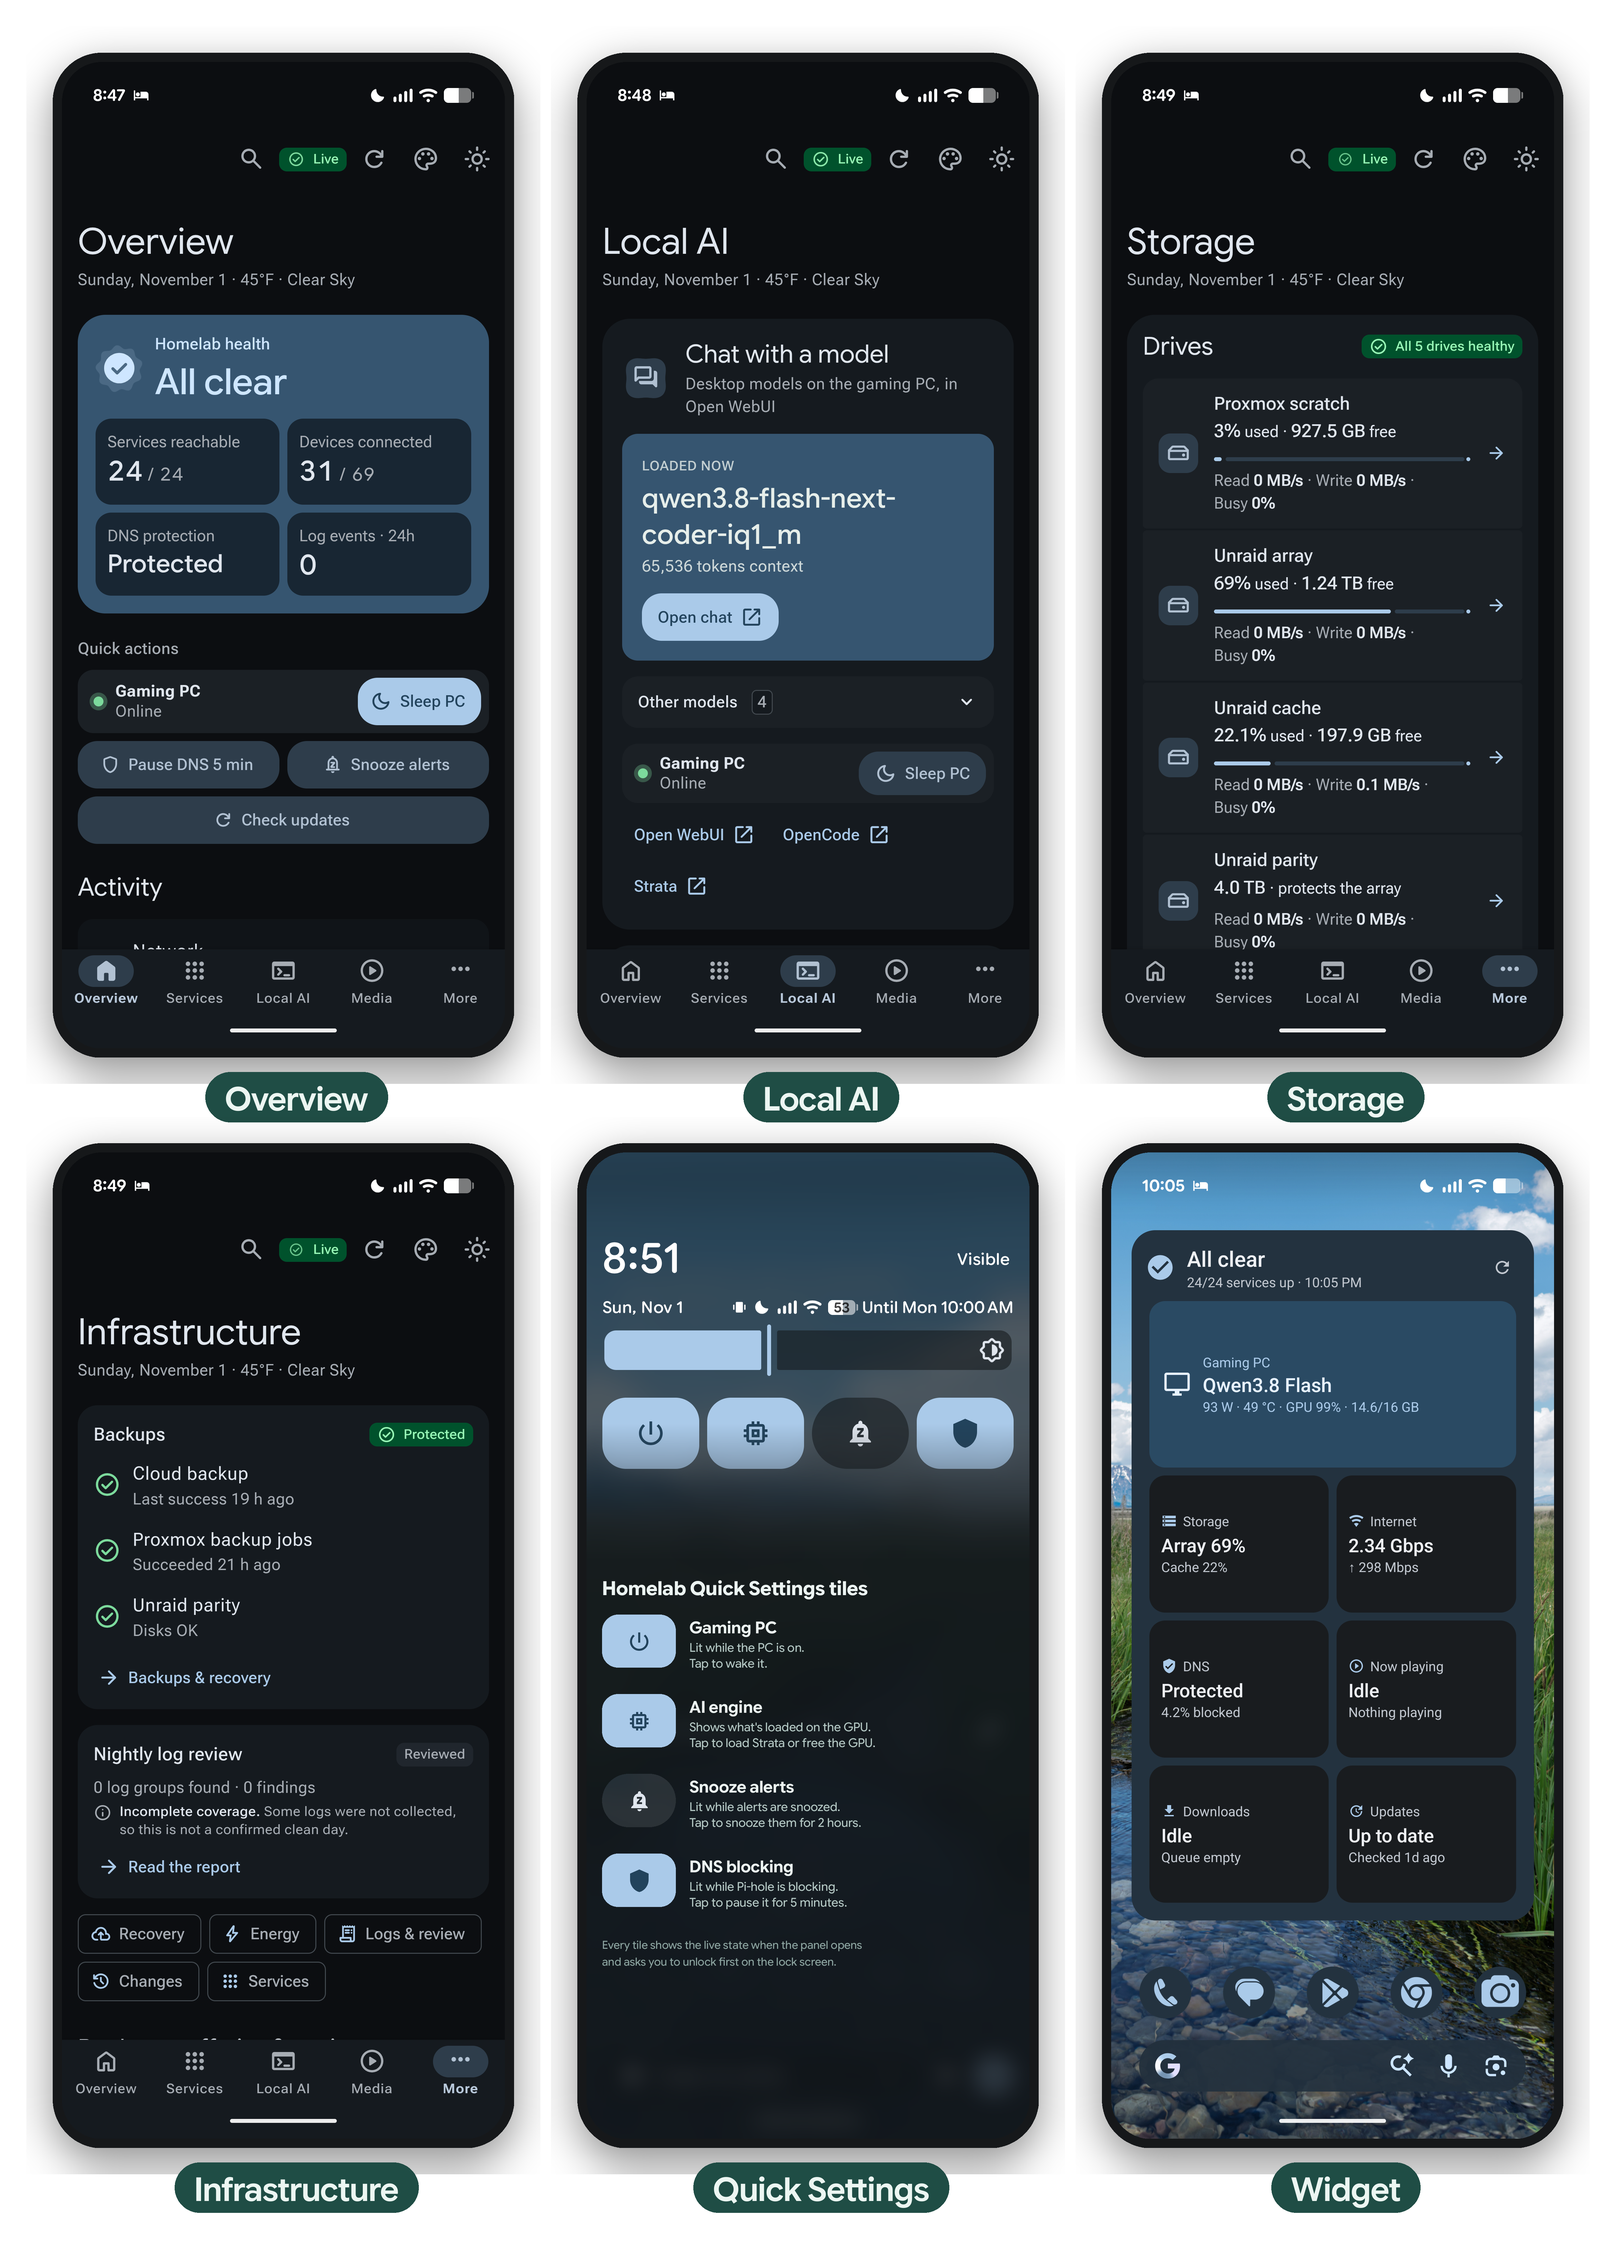
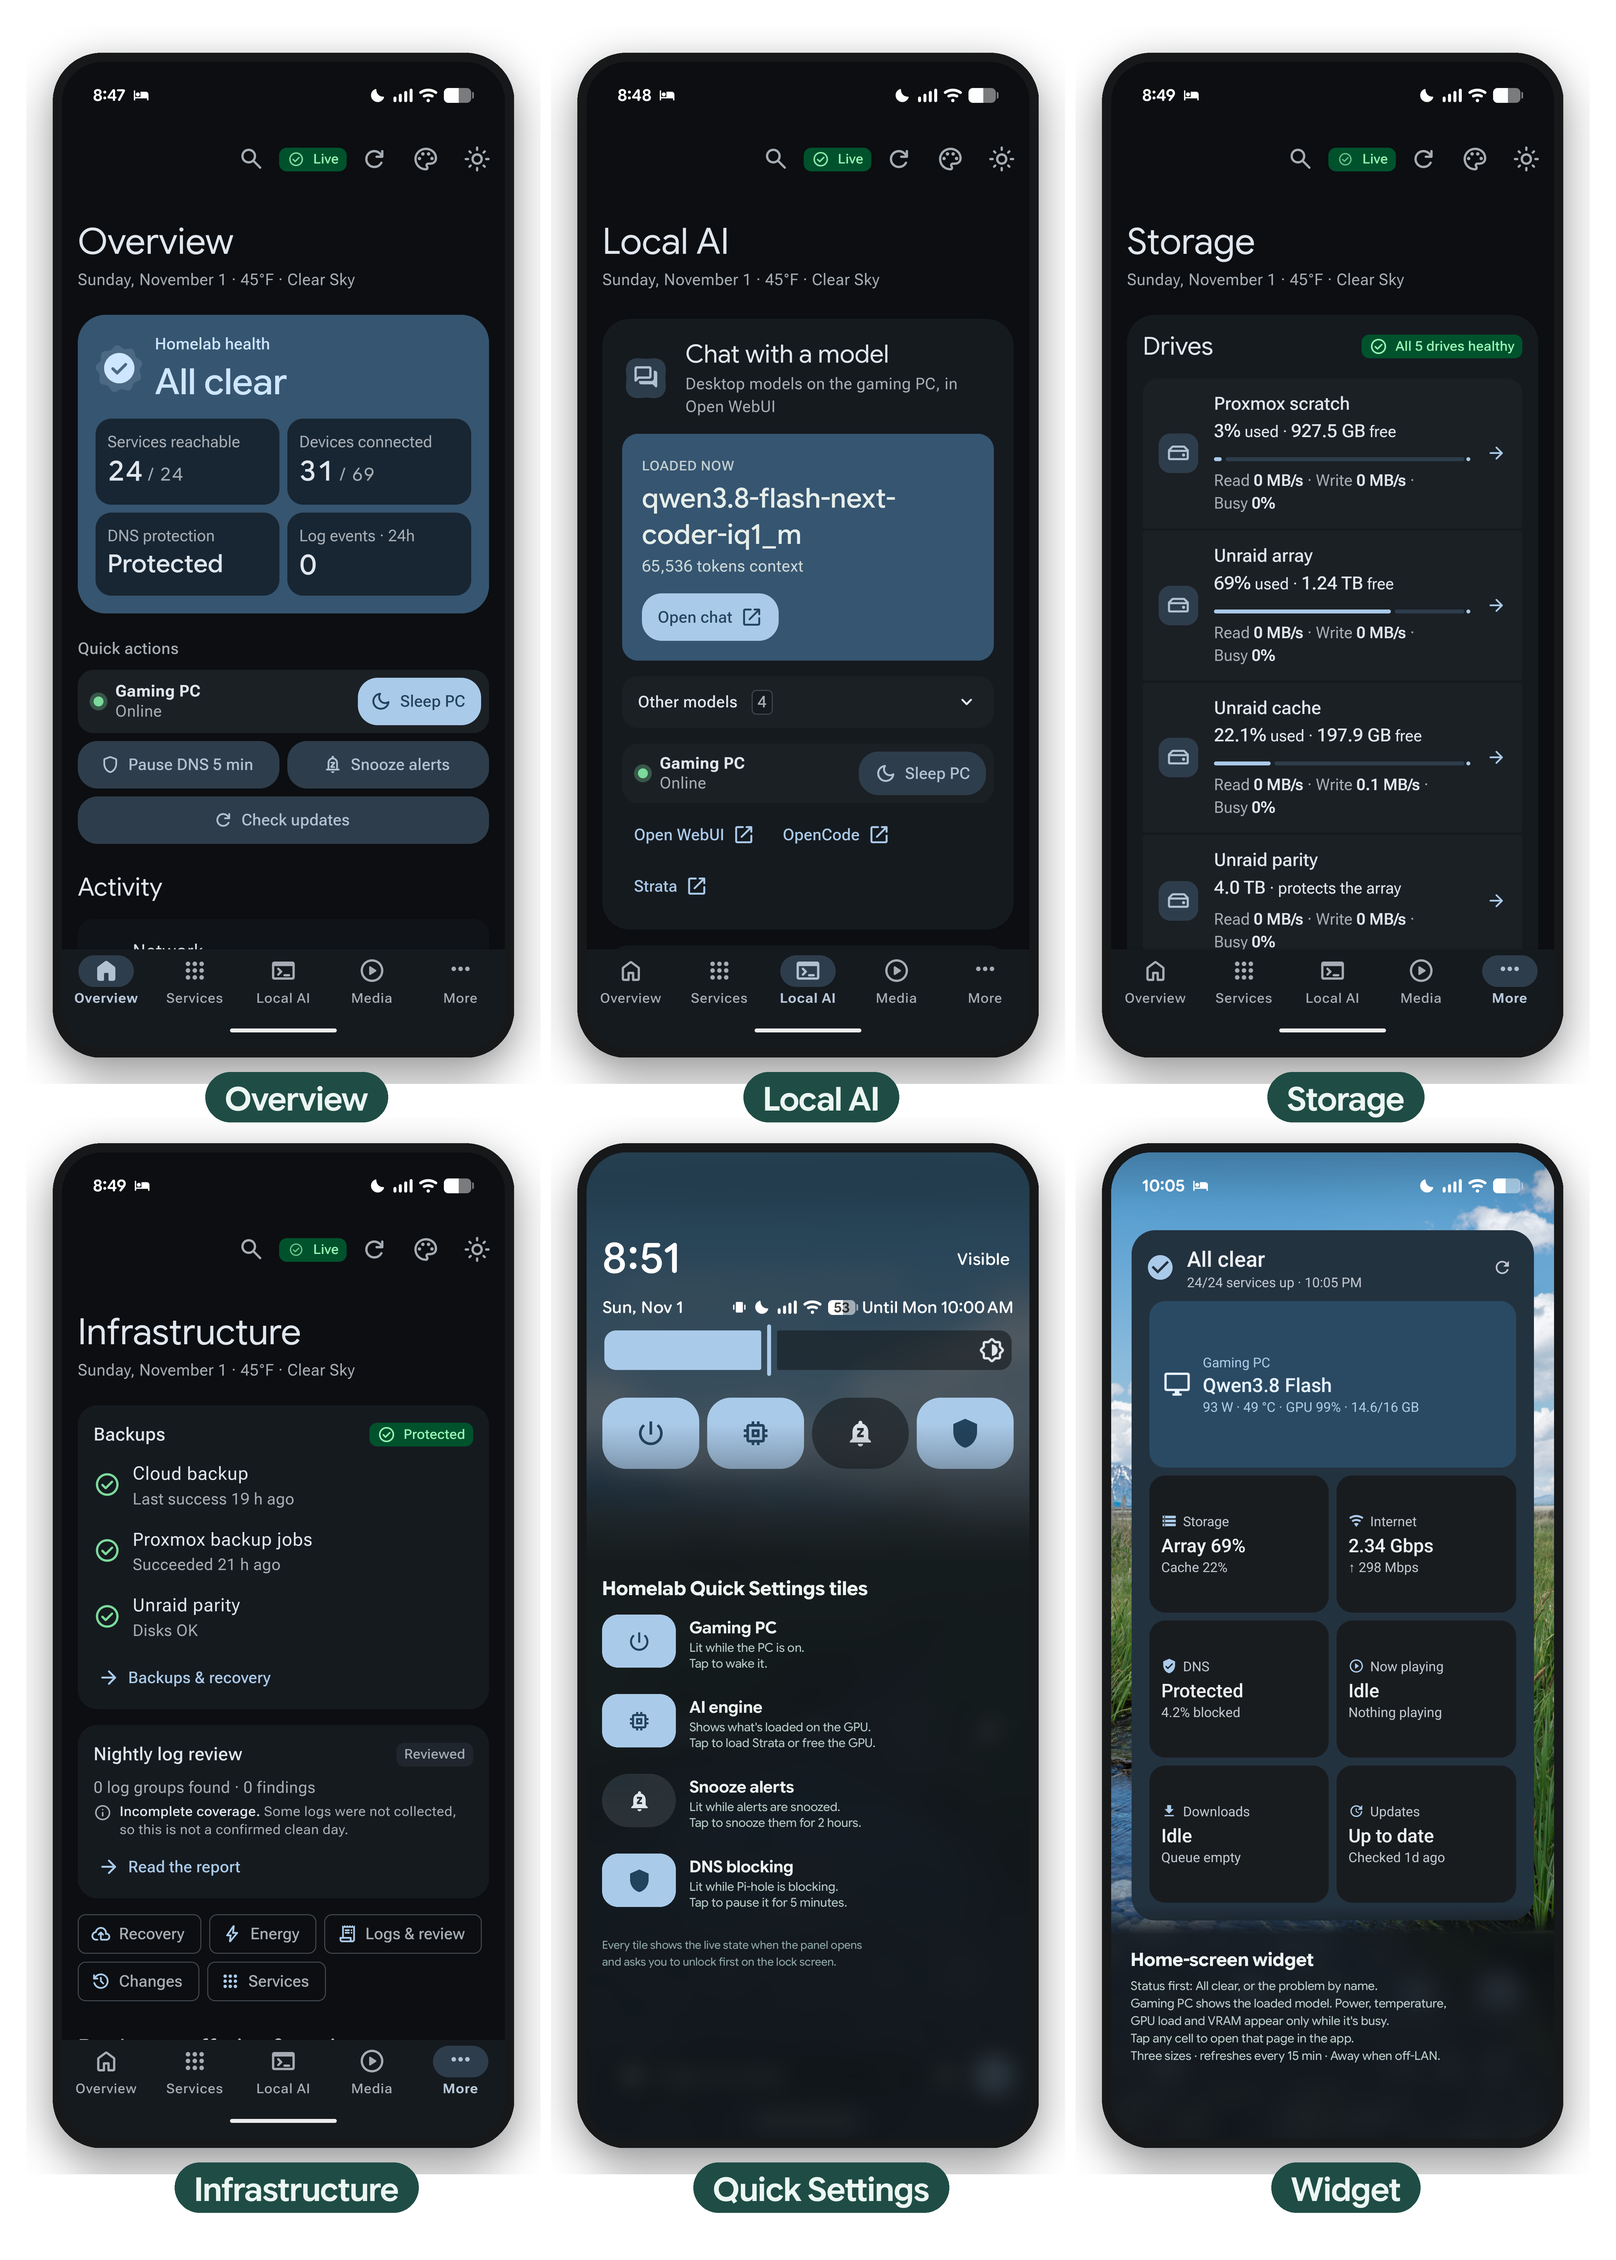
docs: widget shot in the gallery gets a short legend (busy-only GPU line, tap targets, sizes)

Changed region(s): [[0.6864, 0.8428, 0.9672, 0.9676]]

diff --git a/tools/readme-art/widget.py b/tools/readme-art/widget.py
@@ -7,7 +7,7 @@ def font(size, wght):
     try: f.set_variation_by_axes([min(int(size), 144), wght])
     except Exception: pass
     return f
-out = im.copy(); cut = int(1600 * k)          # keep status bar and the whole widget, replace the dock and search bar
+out = im.copy(); cut = int(1585 * k)          # keep status bar and the whole widget, replace the dock and search bar
 fh = int(60 * k)
 panel_src = im.crop((0, cut - fh, W, H)).filter(ImageFilter.GaussianBlur(34))
 panel = Image.blend(panel_src, Image.new("RGB", panel_src.size, (16, 20, 24)), 0.82)
@@ -16,10 +16,10 @@ for y in range(fh): md.line((0, y, W, y), fill=int(255 * y / fh))
 out.paste(panel, (0, cut - fh), mask)
 d = ImageDraw.Draw(out); x = int(40 * k); y = cut + int(28 * k)
 d.text((x, y), "Home-screen widget", font=font(38 * k, 700), fill=(236, 244, 242)); y += int(62 * k)
-for line in ["Gaming PC first: asleep, idle, model loaded or generating,",
-             "with GPU power, temperature, load and VRAM.",
-             "Then downloads and a problems line.",
-             "Four sizes · refreshes every 15 minutes · keeps the",
-             "last reading, marked Away, when you're not home."]:
+for line in ["Status first: All clear, or the problem by name.",
+             "Gaming PC shows the loaded model. Power, temperature,",
+             "GPU load and VRAM appear only while it's busy.",
+             "Tap any cell to open that page in the app.",
+             "Three sizes · refreshes every 15 min · Away when off-LAN."]:
     d.text((x, y), line, font=font(25 * k, 450), fill=(185, 204, 200)); y += int(36 * k)
 out.save(dst); print(out.size, "text ends", y, "of", H)
